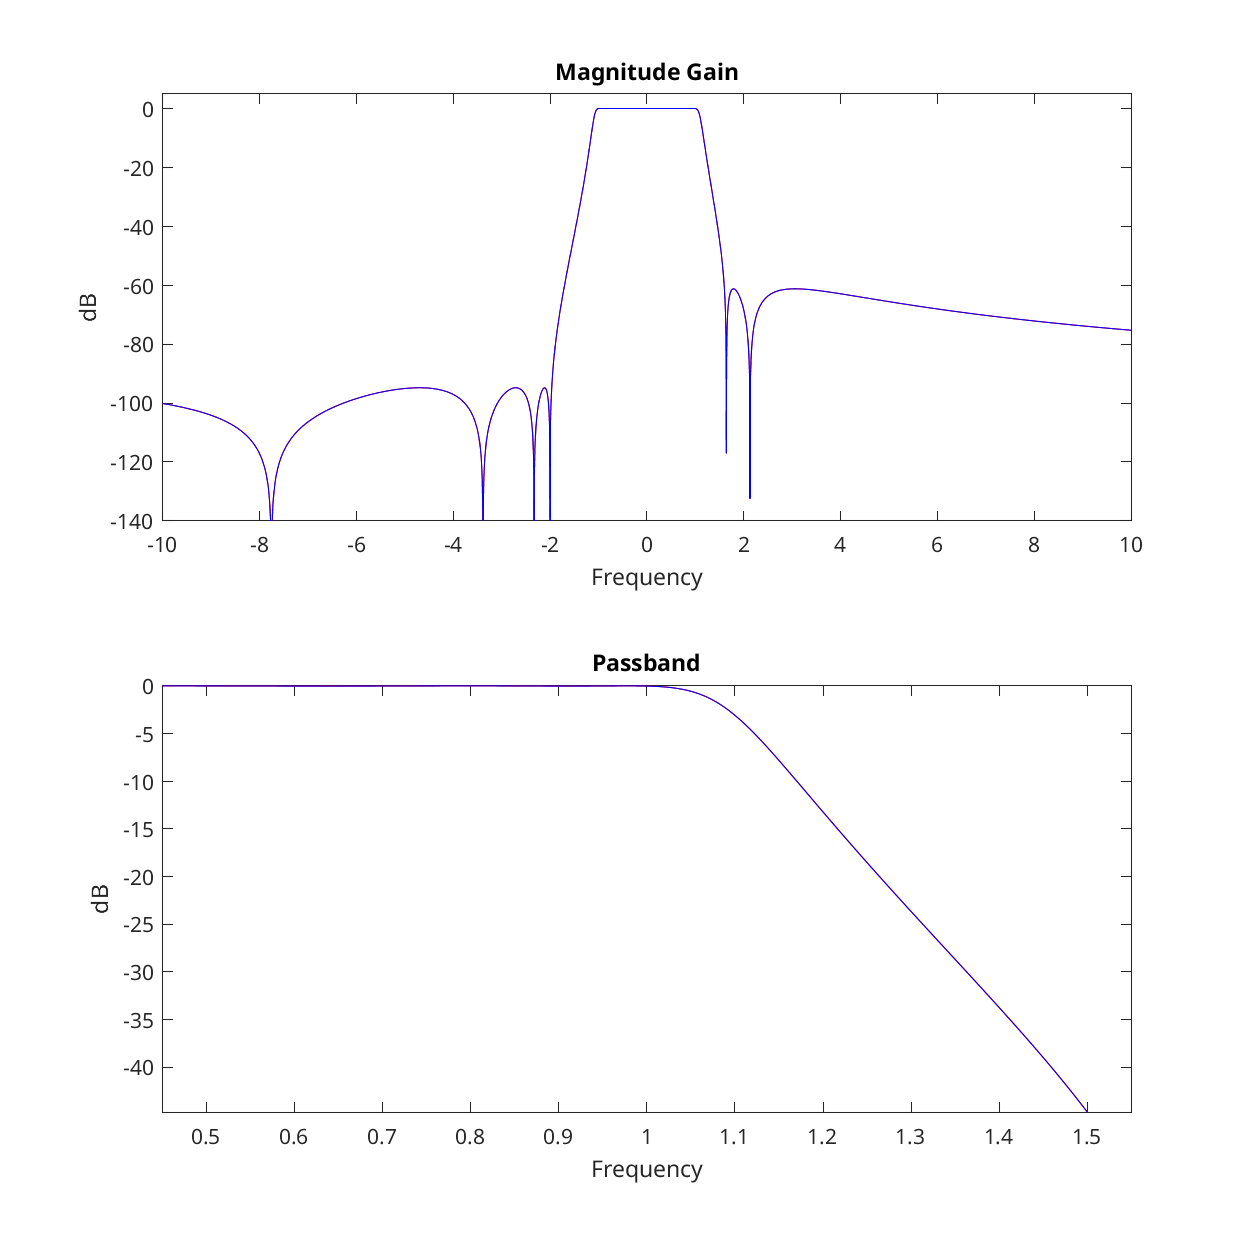
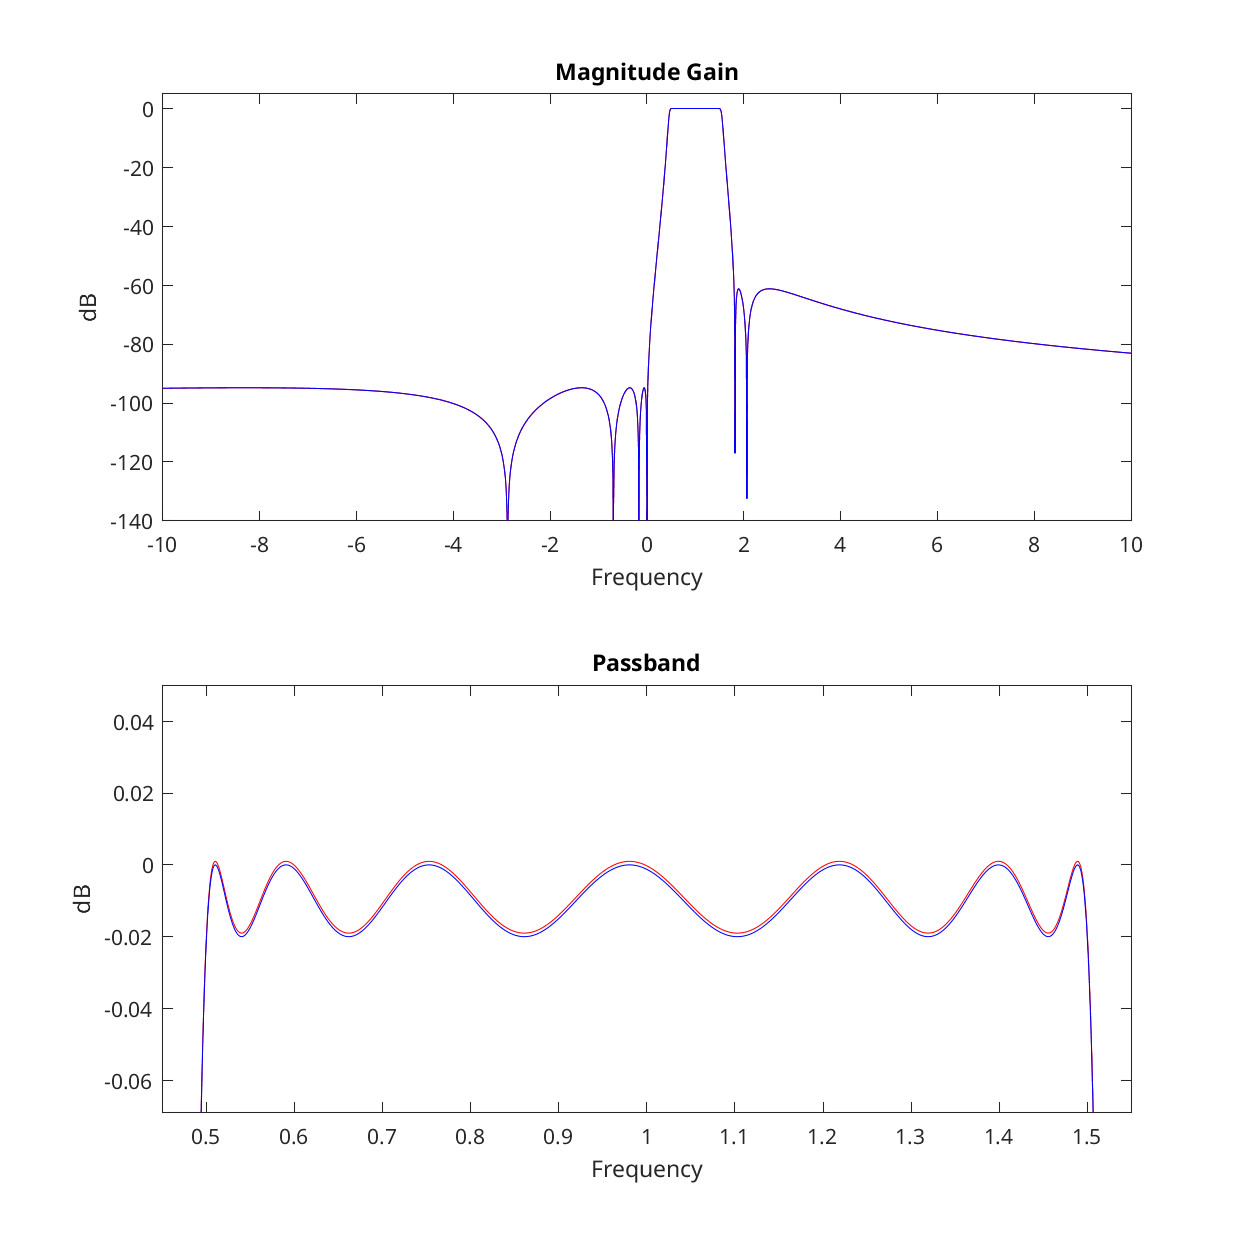
Fix exmpl_1_5_1.m/exmpl_5_1_1.m: remove dead X2o ladder-synthesis block
Both scripts referenced an undefined X2o at
[X5, elem14, elem15] = rmvUsingS2(X2o, P(1), lddr2). X2o is never
computed in either script - it's a variable from a different family of
sibling examples (exmpl_1_5_0.m etc.) that build candidate two-port
reactances via mkXsCmplx2/mkXs. These two scripts use a different,
unrelated ladder-synthesis path (rmv2XPoles/rmvSCmplx) that never
produces an X2o, so the error only surfaced in a fresh MATLAB session -
interactively, a leftover X2o from an earlier script in the same session
would be silently (and wrongly) reused instead.

Tried renaming X2o to X4 (the actual last remainder) first, but that
exposed a real structural problem: the main ladder is already complete
one line earlier (the "remainder should be simply real" comment), so X4
has nothing left to remove and rmvUsingS2 fails internally on a
degenerate residue. lddr2/X5/elem14/elem15 are never referenced again
anywhere in either script, confirming the whole block is dead copy-paste
regardless of which variable it names. Removed it. Verified both scripts
now pass.

diff --git a/examples/exmpl_1_5_1.m b/examples/exmpl_1_5_1.m
@@ -37,9 +37,6 @@ lddr = ladderClass(); % A matlab object
 [X4, elem10] = rmvSCmplx(X3, lddr);
 lddr.R2 = X4.K; % the remainder should be simply real (the load resistor)
 
-lddr2 = ladderClass(lddr);
-[X5, elem14, elem15] = rmvUsingS2(X2o, P(1), lddr2);
-
 dispLddr(lddr);
 
 lim = [-10 10 -140 5];

diff --git a/examples/exmpl_5_1_1.m b/examples/exmpl_5_1_1.m
@@ -37,9 +37,6 @@ lddr = ladderClass(); % A matlab object
 [X4, elem10] = rmvSCmplx(X3, lddr);
 lddr.R2 = X4.K; % the remainder should be simply real (the load resistor)
 
-lddr2 = ladderClass(lddr);
-[X5, elem14, elem15] = rmvUsingS2(X2o, P(1), lddr2);
-
 dispLddr(lddr);
 
 lim = [-10 10 -140 5];

diff --git a/TestFilters.md b/TestFilters.md
@@ -198,9 +198,26 @@ guess-fix):**
   stop-band placement for this specific order/spec.
 - `exmpl_r1b.m`, `tstTFops.m` — `Pole Removals Failed`.
 
+`exmpl_1_5_1.m`/`exmpl_5_1_1.m` (previously listed here as `Unrecognized
+function or variable 'X2o'`) are now fixed. `X2o` was never defined in
+either script - it's a variable name from a *different* family of sibling
+examples (`exmpl_1_5_0.m` and others) that build candidate two-port
+reactances via `mkXsCmplx2`/`mkXs`, one of which is called `X2o`. These
+two scripts use a different, unrelated ladder-synthesis path
+(`rmv2XPoles`/`rmvSCmplx`) that never produces an `X2o` at all, so
+whichever error you'd hit depended entirely on whatever happened to be
+left over in the base workspace from a previous script run in the same
+MATLAB session - including no error at all, if `X2o` happened to still be
+sitting there from something else, silently used instead of erroring. The
+whole `lddr2 = ladderClass(lddr); [X5, elem14, elem15] =
+rmvUsingS2(X2o/X4, P(1), lddr2);` block turned out to be dead copy-paste
+regardless of which variable it referenced: the main ladder (`lddr`) is
+already complete one line earlier (the "remainder should be simply real"
+comment), and `lddr2`/`X5`/`elem14`/`elem15` were never referenced again
+anywhere in either script. Removed the block entirely rather than patch
+the variable name. Verified both pass.
+
 **Real bug (stale/renamed variable or wrong call signature):**
-- `exmpl_1_5_1.m`, `exmpl_5_1_1.m` — `Unrecognized function or variable
-  'X2o'`.
 - `mkFltr_exmpl.m` — `Too many output arguments`.
 - `shortDat.m` — `Unrecognized function or variable 'win'`.
 
